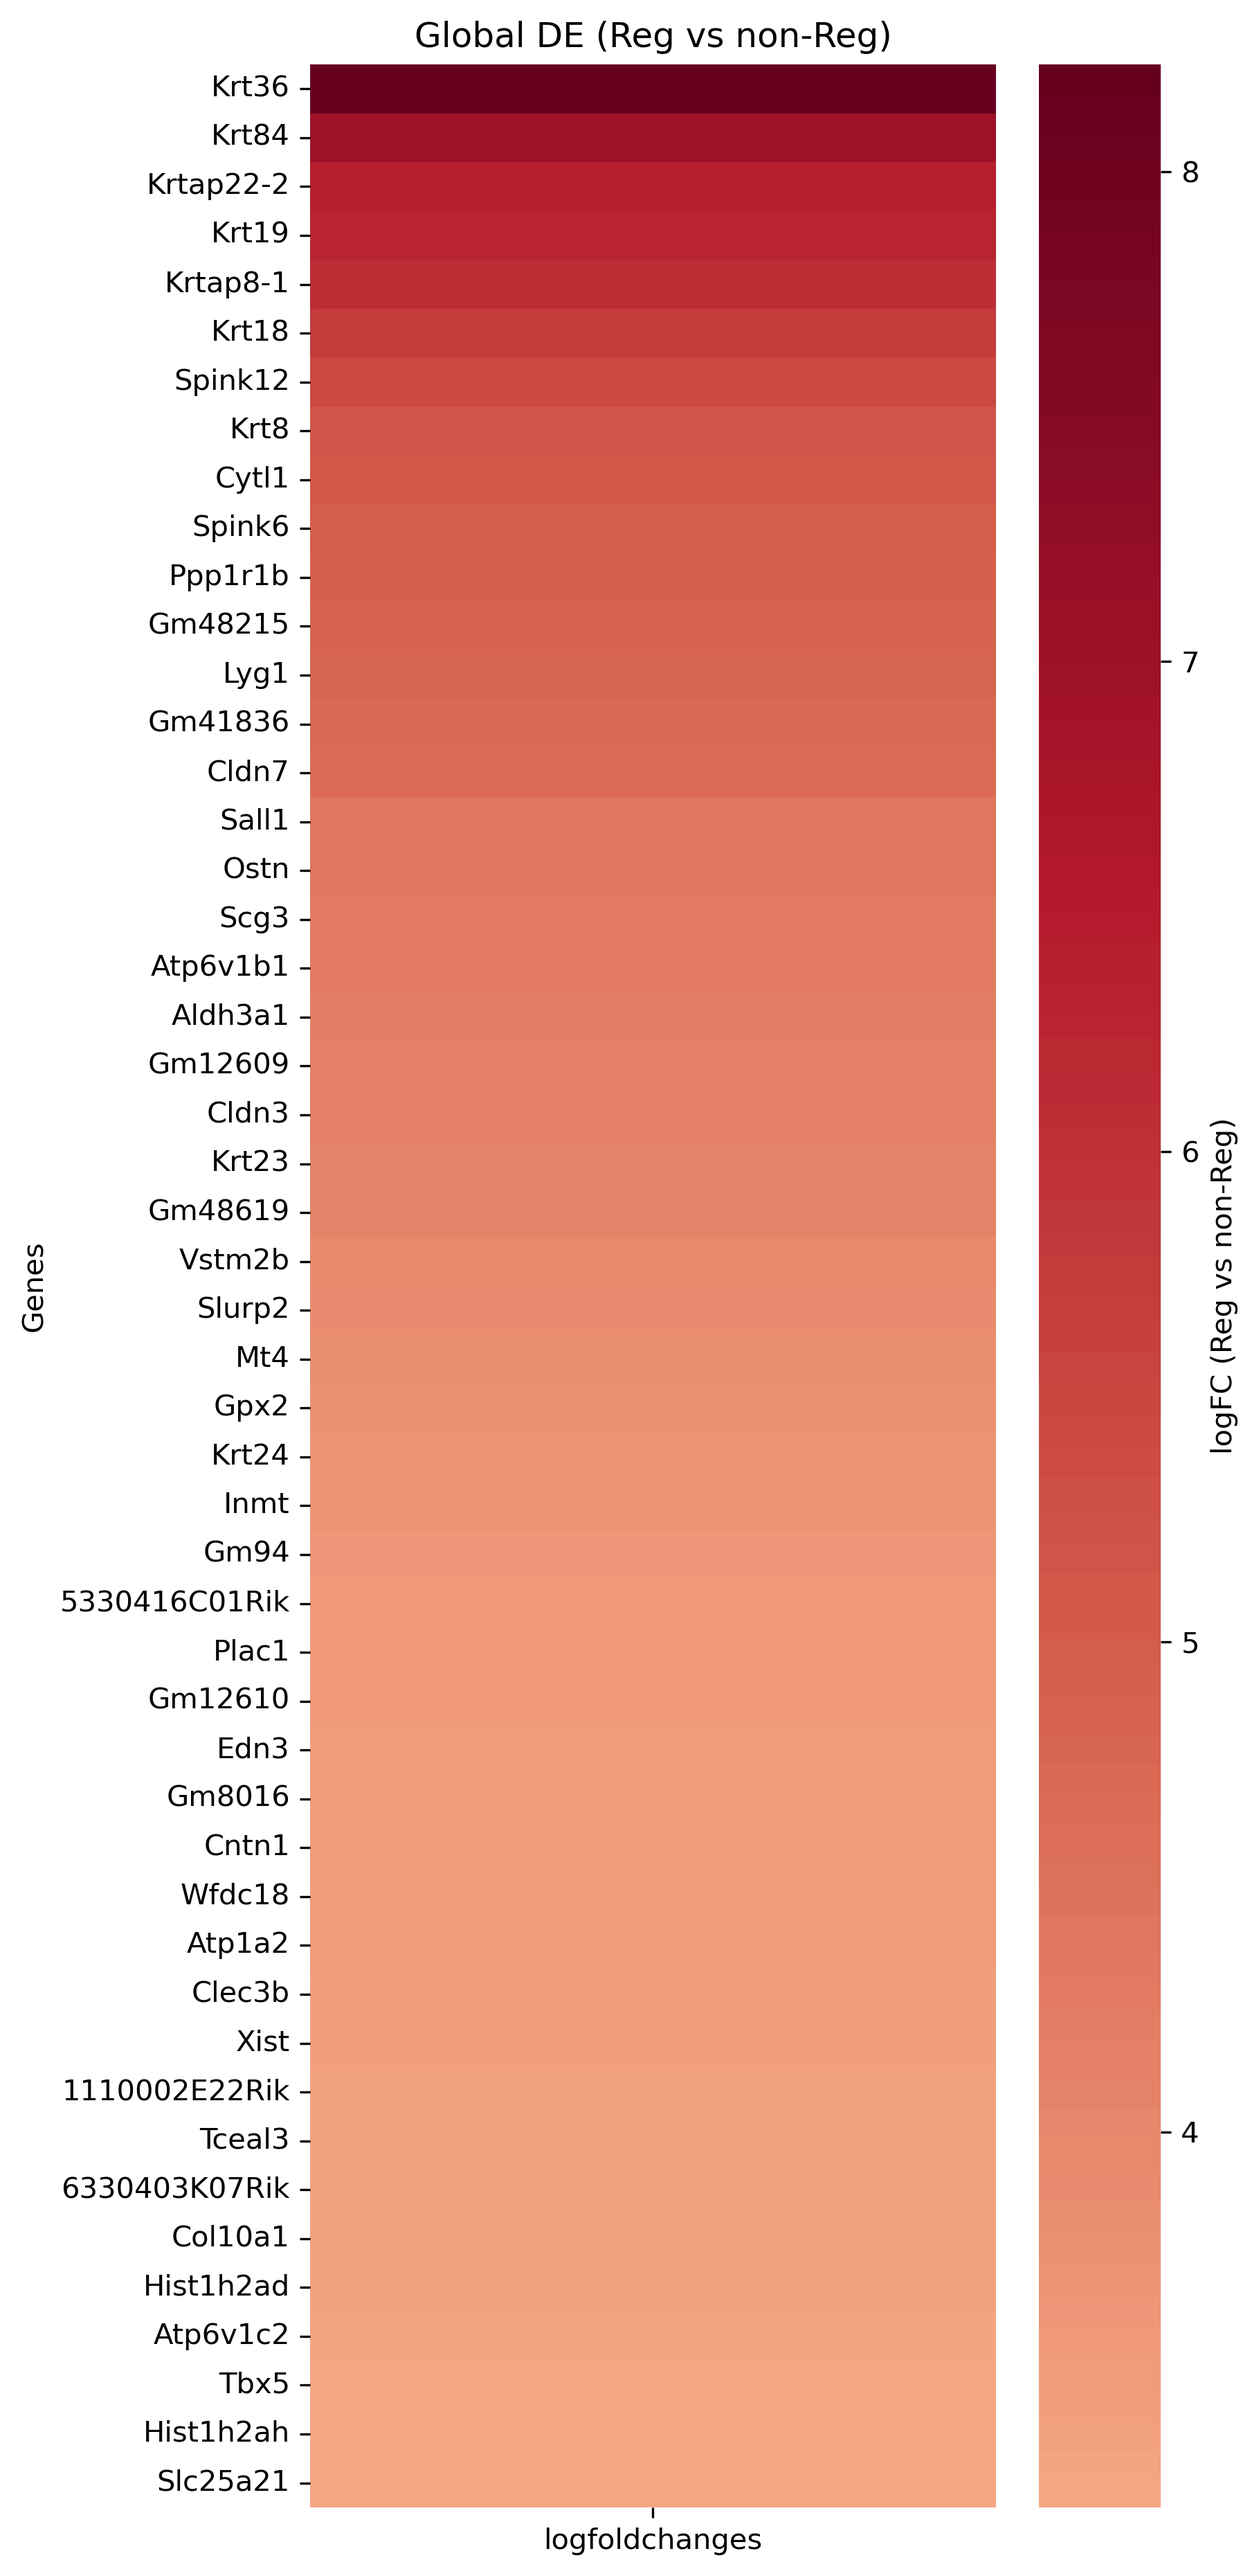
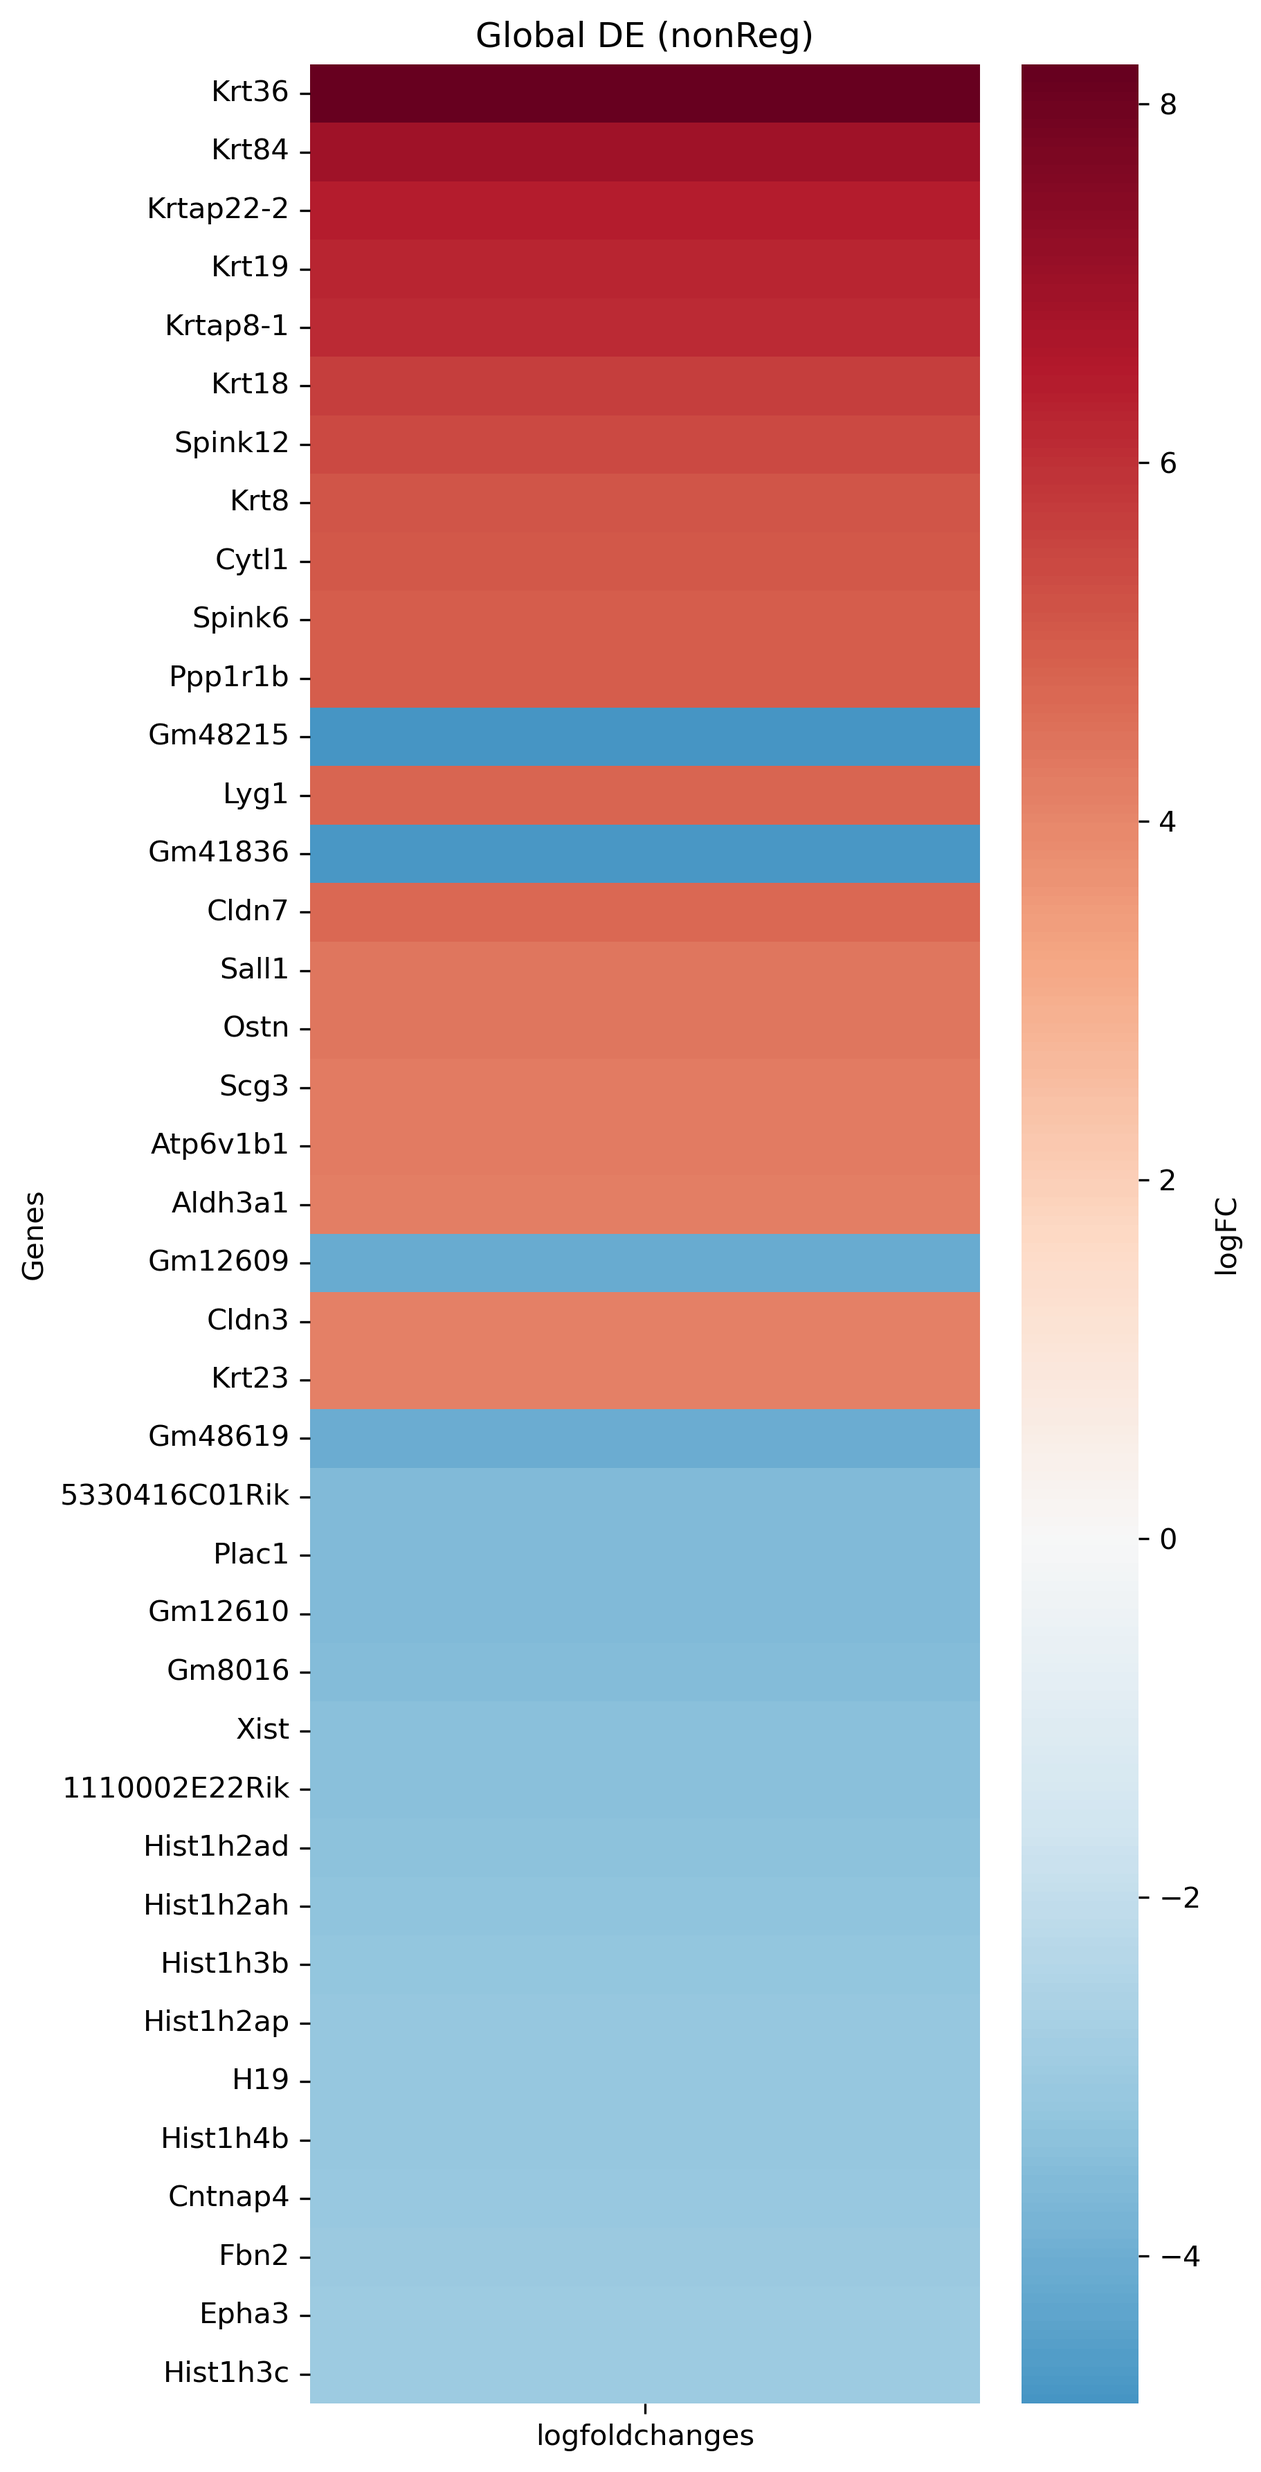
Update global dge

diff --git a/src/dge.py b/src/dge.py
@@ -11,86 +11,90 @@ parser.add_argument("--output", required=True)
 parser.add_argument("--prefix", required=True)
 parser.add_argument("--N", type=int, required=True)
 parser.add_argument("--pvalue", type=float, default=0.05)
+parser.add_argument("--reference", required=True)
 args = parser.parse_args()
 
 adata = sc.read_h5ad(args.input)
 
 # ----------------------------
-# GLOBAL DGE
+# GLOBAL DE
 # ----------------------------
 sc.tl.rank_genes_groups(
     adata,
     groupby="sample",
+    reference=args.reference,
     method="wilcoxon",
     layer="log1p",
     use_raw=False
 )
 
-r = adata.uns["rank_genes_groups"]
-groups = r["names"].dtype.names
+# ----------------------------
+# CLEAN EXTRACTION (NO r["..."][0])
+# ----------------------------
+df = sc.get.rank_genes_groups_df(adata, group=None)
 
-all_rows = []
+df = df[["names", "logfoldchanges", "pvals_adj"]].rename(
+    columns={"names": "gene"}
+)
 
-for g in groups:
-    for i in range(len(r["names"][g])):
-        all_rows.append({
-            "gene": r["names"][g][i],
-            "logfoldchanges": r["logfoldchanges"][g][i],
-            "pvals_adj": r["pvals_adj"][g][i]
-        })
-
-df = pd.DataFrame(all_rows)
-
+# ----------------------------
+# SAVE CSV
+# ----------------------------
 df.to_csv(f"{args.prefix}_global_dge.csv", index=False)
 
 # ----------------------------
-# TOP GENES
+# FILTER
 # ----------------------------
-up = df[
-    (df["logfoldchanges"] > 0) &
-    (df["pvals_adj"] < args.pvalue)
-].sort_values("logfoldchanges", ascending=False).head(args.N)
+sig = df[df["pvals_adj"] < args.pvalue].copy()
 
-down = df[
-    (df["logfoldchanges"] < 0) &
-    (df["pvals_adj"] < args.pvalue)
-].sort_values("logfoldchanges", ascending=True).head(args.N)
+# remove duplicates (keep strongest signal)
+sig = sig.sort_values("logfoldchanges", key=lambda x: x.abs(), ascending=False)
+sig = sig.drop_duplicates("gene")
+
+# ----------------------------
+# TOP N UP / DOWN
+# ----------------------------
+up = sig[sig["logfoldchanges"] > 0].sort_values(
+    "logfoldchanges", ascending=False
+).head(args.N)
+
+down = sig[sig["logfoldchanges"] < 0].sort_values(
+    "logfoldchanges", ascending=True
+).head(args.N)
 
 plot_df = pd.concat([up, down]).drop_duplicates("gene")
 
-if len(plot_df) == 0:
+if plot_df.empty:
     raise ValueError("No significant genes found")
 
 # ----------------------------
-# HEATMAP = DIRECT FROM CSV (NO RECOMPUTATION)
+# HEATMAP
 # ----------------------------
 heatmap_df = plot_df.set_index("gene")[["logfoldchanges"]]
 
-# sort for readability
-heatmap_df = heatmap_df.sort_values("logfoldchanges", ascending=False)
+heatmap_df = heatmap_df.reindex(
+    heatmap_df["logfoldchanges"].abs().sort_values(ascending=False).index
+)
 
 # ----------------------------
 # PLOT
 # ----------------------------
-plt.figure(figsize=(6, max(6, len(heatmap_df) * 0.25)))
+plt.figure(figsize=(6, max(6, len(heatmap_df) * 0.3)))
 
 sns.heatmap(
     heatmap_df,
     cmap="RdBu_r",
     center=0,
     annot=False,
-    cbar_kws={"label": "logFC (Reg vs non-Reg)"}
+    cbar_kws={"label": "logFC"}
 )
 
-plt.title("Global DE (Reg vs non-Reg)")
+plt.title(f"Global DE ({args.reference})")
 plt.ylabel("Genes")
 plt.xlabel("")
 
 plt.tight_layout()
-plt.savefig(
-    f"figures/{args.prefix}_heatmap.png",
-    dpi=300,
-    bbox_inches="tight"
-)
+plt.savefig(f"figures/{args.prefix}_heatmap.png", dpi=300, bbox_inches="tight")
+plt.close()
 
 adata.write_h5ad(args.output)

diff --git a/README.md b/README.md
@@ -260,9 +260,10 @@ We used the above marker genes to annotate our celltypes as follows:
 ## Differential gene expression 
 
 ### Global Regenerative vs non Regenerative 
-We performed global differential gene expression analysis between Reg and non-Reg samples using the Wilcoxon rank-sum test. We then selected the top N significantly upregulated and top N significantly downregulated genes (adjusted p-value < 0.05) based on log fold change. These genes were used to generate a heatmap showing their mean expression across cell types. The heatmap visualizes expression patterns of globally differentially expressed genes and is not itself used for differential testing.
 
-![](figures/axt_heatmap.png?v=2)
+We performed global differential gene expression analysis between Reg and non-Reg samples using the Wilcoxon rank-sum test. Genes were filtered using an adjusted p-value threshold of < 0.05. The top N genes with the highest positive and lowest negative log fold change values were selected as upregulated and downregulated genes, respectively. These genes were visualized in a heatmap displaying their global log fold change values (Reg vs non-Reg). The heatmap represents differential expression effect sizes and is used for visualization only, not for statistical testing.
+
+![](figures/axt_heatmap.png?v=3)
 
 
 
